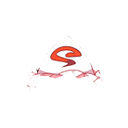
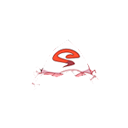
完成遗物 人魂灯 诱蛾灯 缩小遗物图片大小

Changed region(s): [[0.25, 0.3438, 0.8125, 0.6562], [0.1875, 0.625, 0.2812, 0.6875]]

diff --git a/src/main/kotlin/yuyuko/relics/TrapLamp.kt b/src/main/kotlin/yuyuko/relics/TrapLamp.kt
@@ -1,0 +1,51 @@
+package yuyuko.relics
+
+import basemod.abstracts.CustomRelic
+import com.megacrit.cardcrawl.actions.common.MakeTempCardInDrawPileAction
+import com.megacrit.cardcrawl.dungeons.AbstractDungeon
+import com.megacrit.cardcrawl.helpers.ImageMaster
+import com.megacrit.cardcrawl.relics.AbstractRelic
+import yuyuko.cards.yuyuko.Butterfly
+
+
+class TrapLamp : CustomRelic(
+        ID,
+        ImageMaster.loadImage(IMAGE_PATH),
+        RelicTier.COMMON,
+        LandingSound.MAGICAL
+) {
+    override fun makeCopy(): AbstractRelic = TrapLamp()
+
+    companion object {
+        @JvmStatic
+        val ID = "Trap Lamp"
+        val IMAGE_PATH = "images/relics/trapLamp.png"
+    }
+
+    init {
+        this.counter = 1
+    }
+
+    override fun atBattleStart() {
+        this.counter = 1
+    }
+
+    override fun atTurnStart() {
+        if (counter == 3) {
+            counter = 1
+        } else {
+            this.counter++
+        }
+        if (counter == 3) {
+            this.flash()
+            AbstractDungeon.actionManager.addToBottom(
+                    MakeTempCardInDrawPileAction(Butterfly(), 1, true, true)
+            )
+        }
+    }
+
+    override fun getUpdatedDescription(): String {
+        return DESCRIPTIONS[0]
+    }
+
+}

diff --git a/src/main/kotlin/yuyuko/relics/GhostLamp.kt b/src/main/kotlin/yuyuko/relics/GhostLamp.kt
@@ -1,0 +1,41 @@
+package yuyuko.relics
+
+import basemod.abstracts.CustomRelic
+import com.megacrit.cardcrawl.actions.common.ApplyPowerAction
+import com.megacrit.cardcrawl.dungeons.AbstractDungeon
+import com.megacrit.cardcrawl.helpers.ImageMaster
+import com.megacrit.cardcrawl.relics.AbstractRelic
+import yuyuko.powers.GhostPower
+
+
+class GhostLamp : CustomRelic(
+        ID,
+        ImageMaster.loadImage(IMAGE_PATH),
+        RelicTier.COMMON,
+        LandingSound.MAGICAL
+) {
+    override fun makeCopy(): AbstractRelic = GhostLamp()
+
+    companion object {
+        @JvmStatic
+        val ID = "Ghost Lamp"
+        val IMAGE_PATH = "images/relics/ghostLamp.png"
+    }
+
+    override fun atTurnStart() {
+        val player = AbstractDungeon.player
+        AbstractDungeon.actionManager.addToBottom(
+                ApplyPowerAction(
+                        player, player,
+                        GhostPower(player, 1),
+                        1
+                )
+        )
+        this.flash()
+    }
+
+    override fun getUpdatedDescription(): String {
+        return DESCRIPTIONS[0]
+    }
+
+}

diff --git a/src/main/kotlin/yuyuko/YuyukoMod.kt b/src/main/kotlin/yuyuko/YuyukoMod.kt
@@ -140,6 +140,7 @@ import yuyuko.powers.SupernaturalNetherPower
 import yuyuko.powers.TheForgottenWinterPower
 import yuyuko.powers.TripleSnowPower
 import yuyuko.relics.Coronal
+import yuyuko.relics.GhostLamp
 import yuyuko.relics.Yuyukosfan
 import java.nio.charset.StandardCharsets
 
@@ -329,6 +330,8 @@ class YuyukoMod : PostInitializeSubscriber, EditCardsSubscriber, EditCharactersS
     override fun receiveEditRelics() {
         BaseMod.addRelicToCustomPool(Yuyukosfan(), CardColorEnum.YUYUKO_COLOR.toString())
         BaseMod.addRelicToCustomPool(Coronal(), CardColorEnum.YUYUKO_COLOR.toString())
+        BaseMod.addRelicToCustomPool(GhostLamp(), CardColorEnum.YUYUKO_COLOR.toString())
+        BaseMod.addRelicToCustomPool(yuyuko.relics.TrapLamp(), CardColorEnum.YUYUKO_COLOR.toString())
     }
 
     override fun receiveEditKeywords() {
